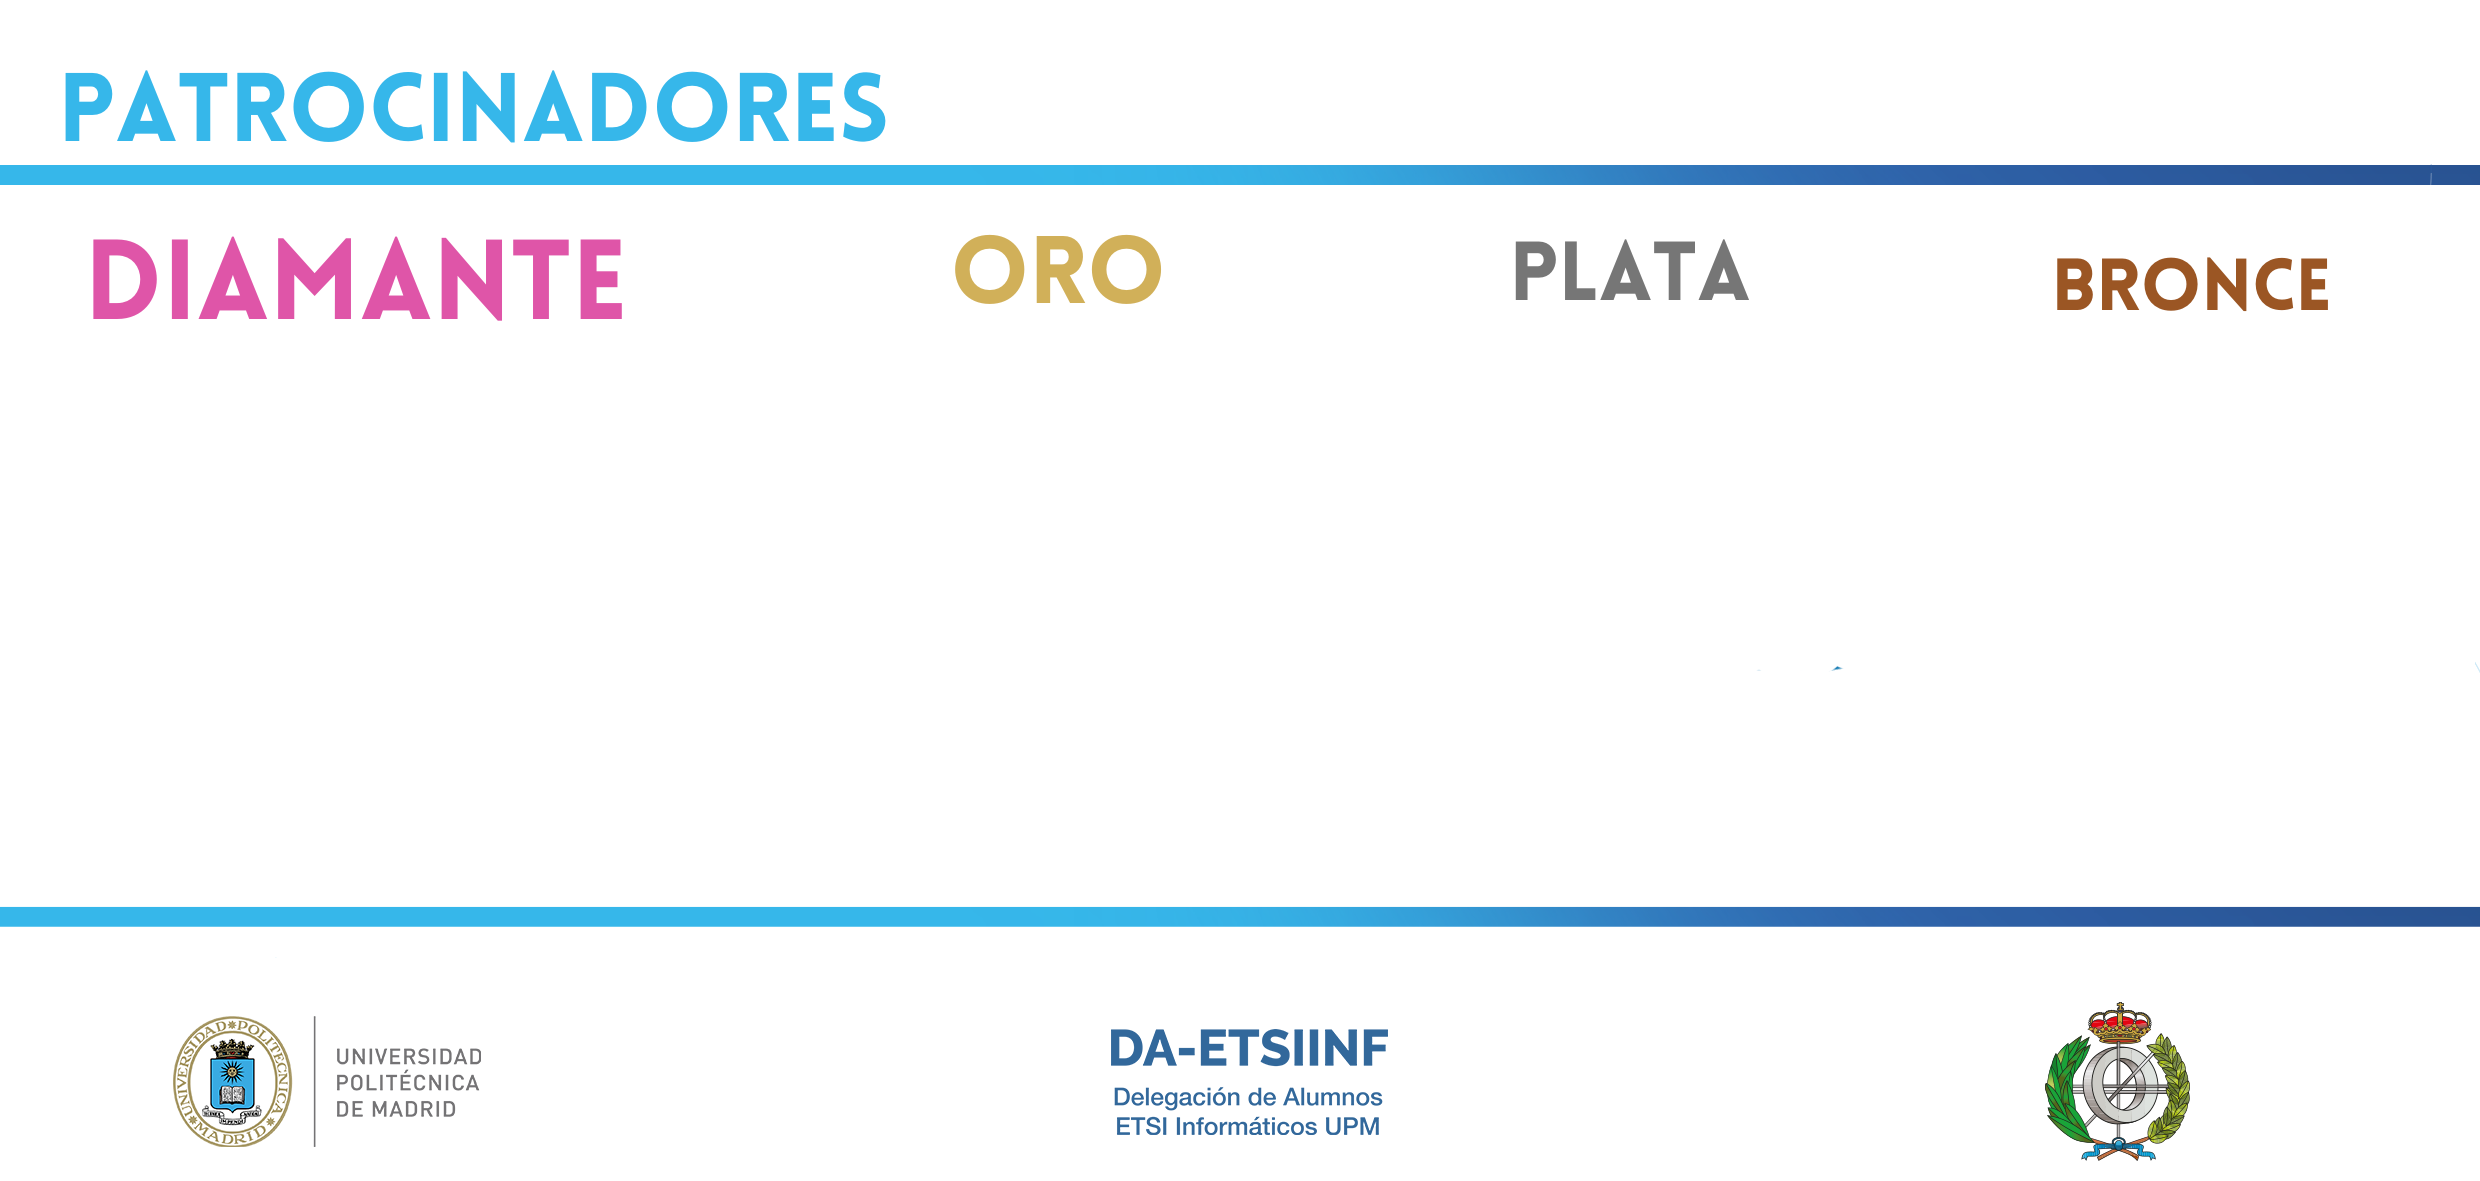
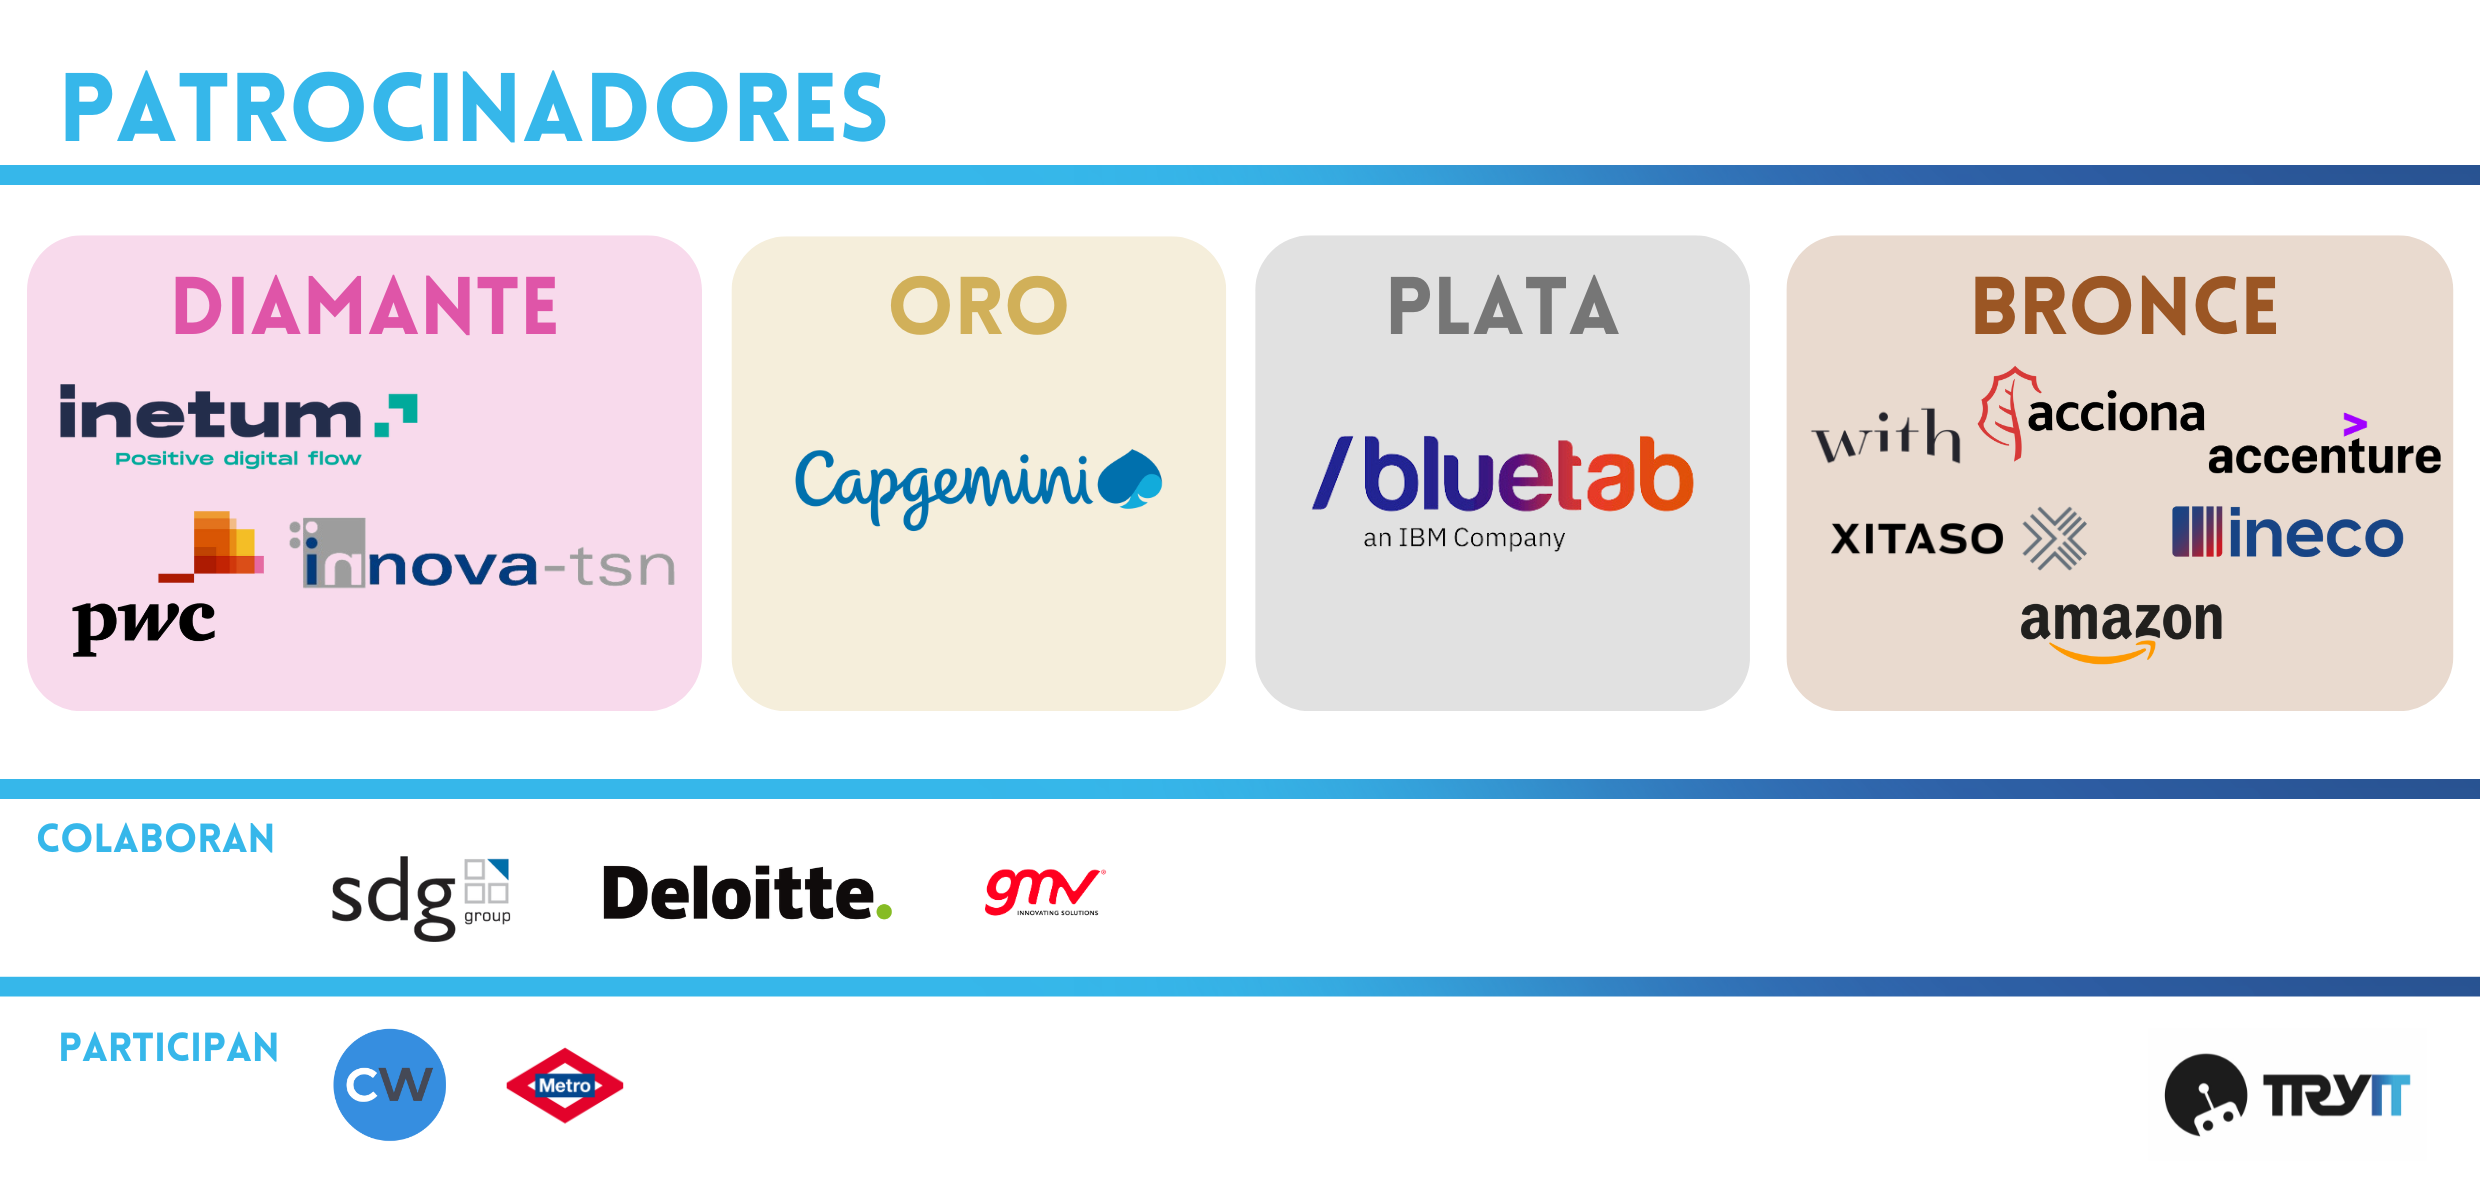
cambiada la imagen de patrocinadores del frontend

diff --git a/tryit-frontend/components/home/Timeline.vue b/tryit-frontend/components/home/Timeline.vue
@@ -317,6 +317,10 @@
                                       v-for="speaker in event.speakers"
                                       :key="speaker.id"
                                     >
+                                    <v-divider>
+
+                                      
+                                    </v-divider>
                                       <v-card
                                         class="mx-auto"
                                       > 
